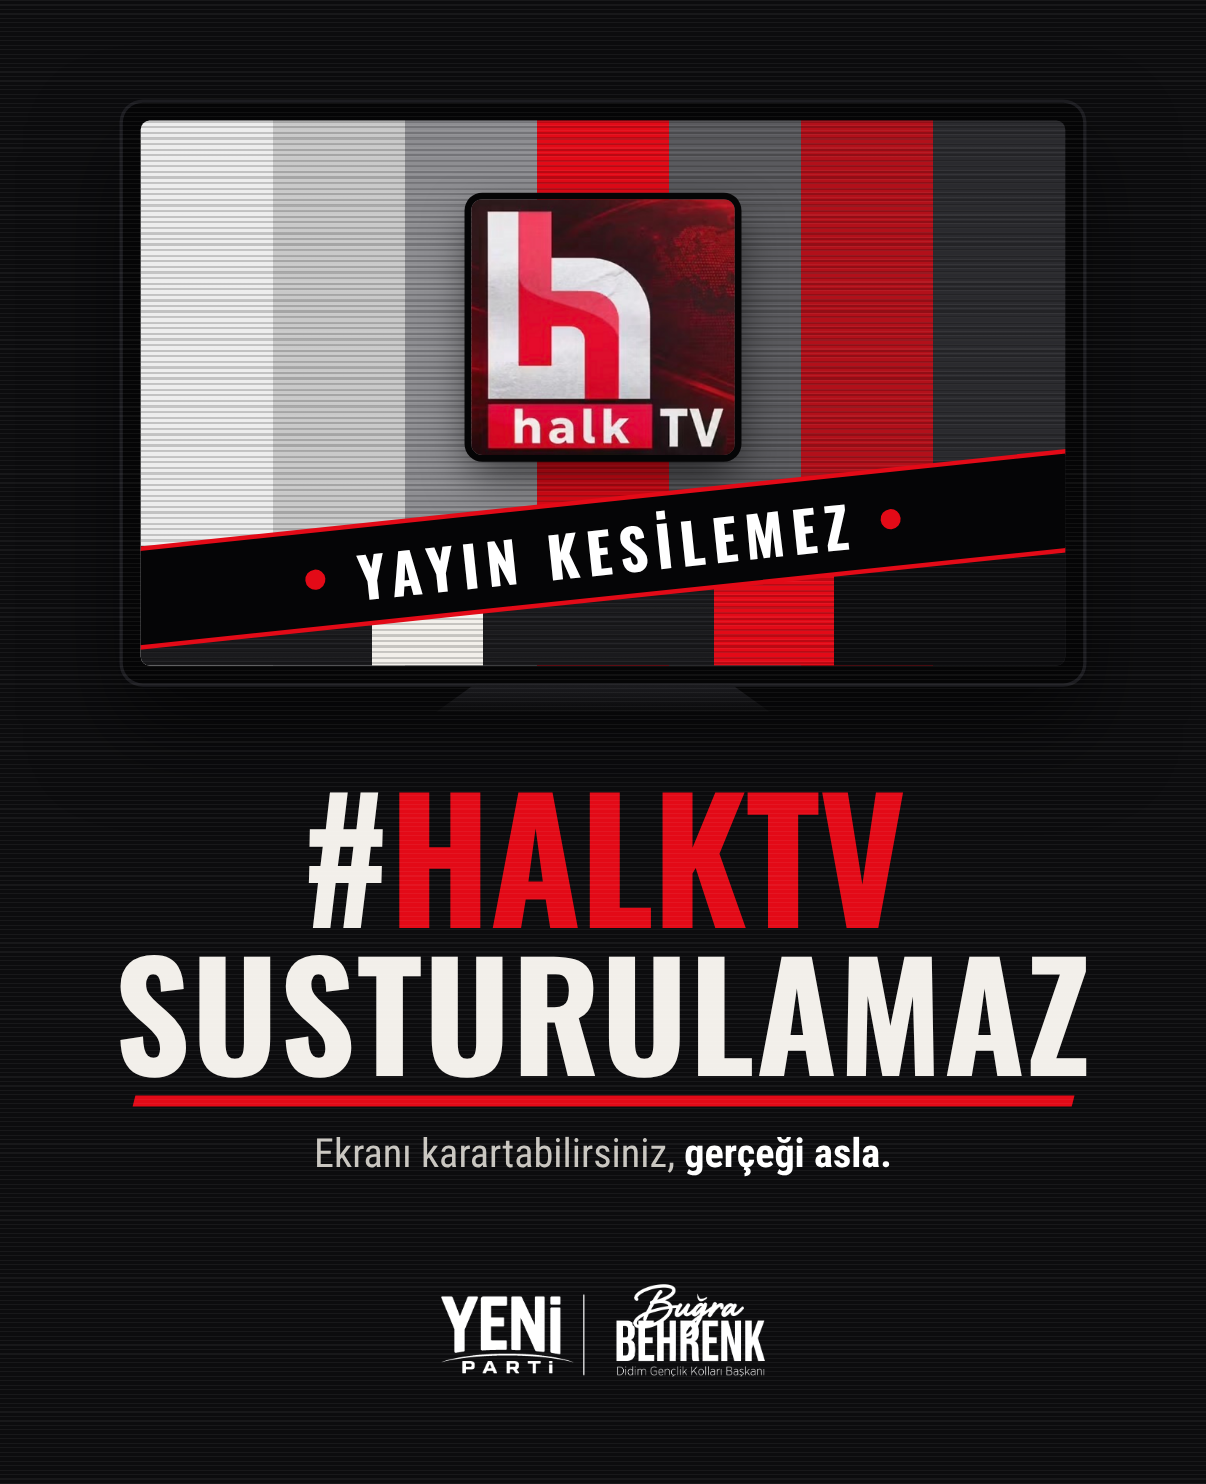
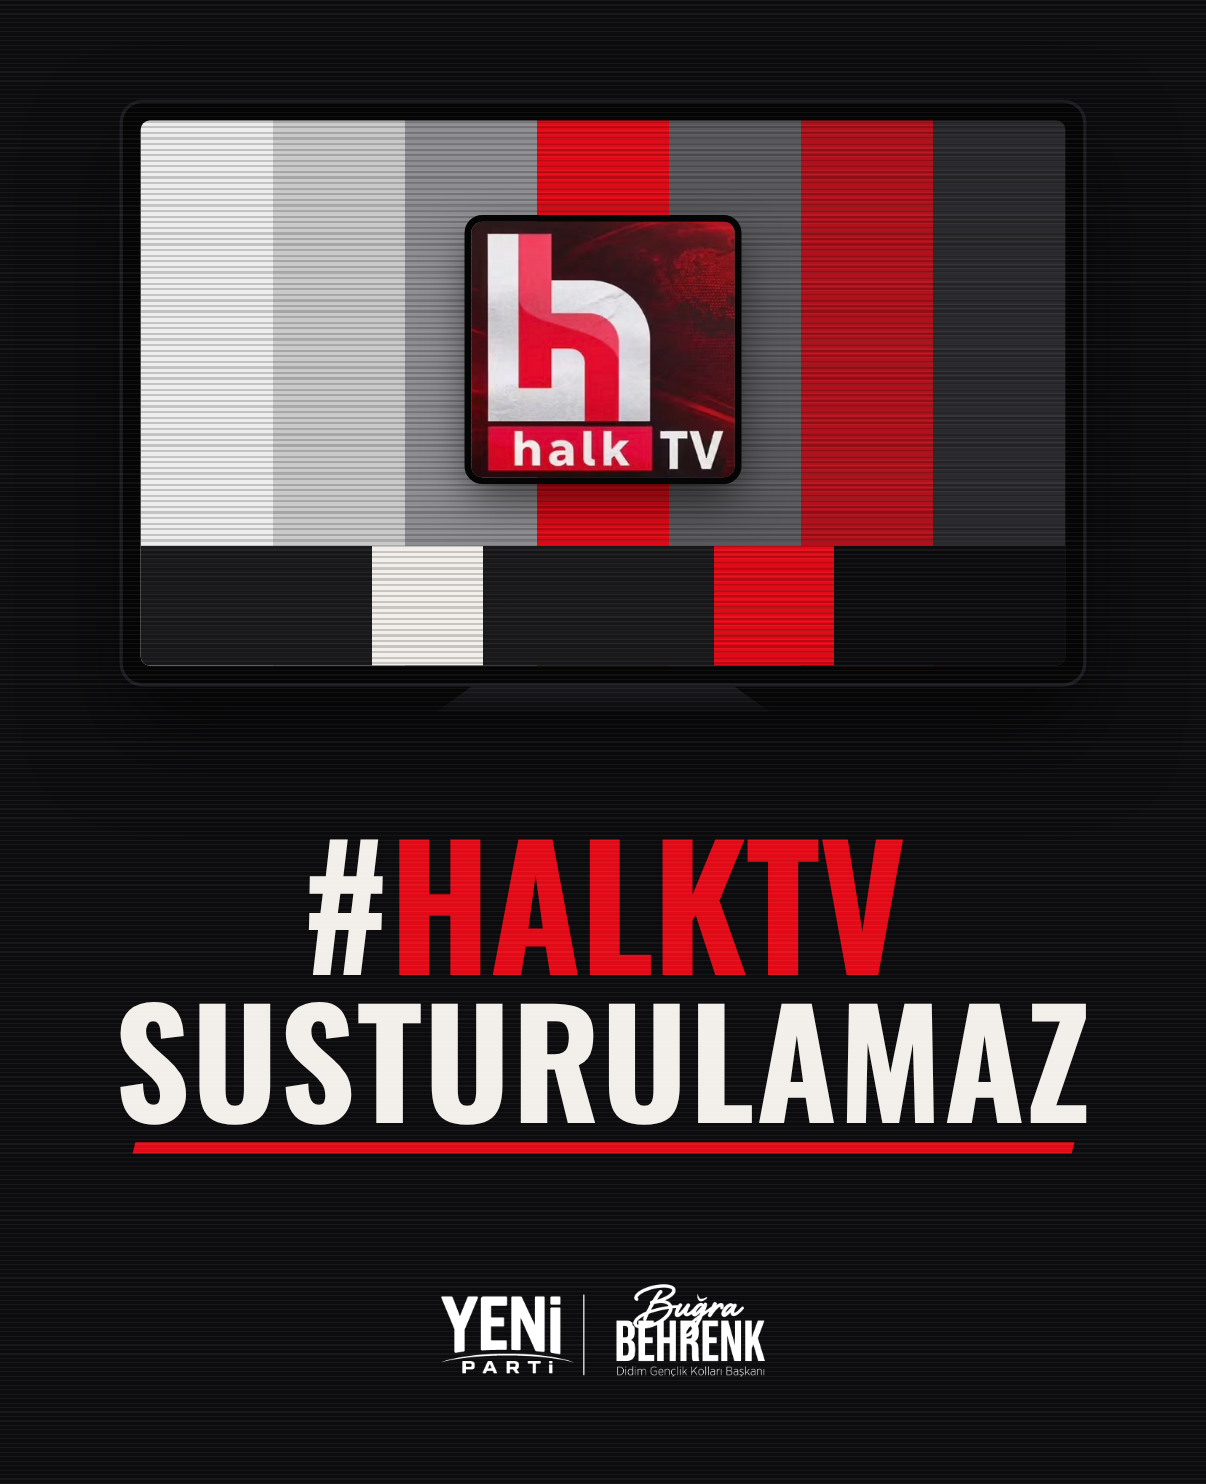
#HalkTVSusturulamaz kişisel: ek yazılar kaldırıldı
Claude-Session: https://claude.ai/code/session_01SatttGbgBLoCnk9KGLypWv

Changed region(s): [[0.092, 0.527, 0.9204, 0.8059], [0.1227, 0.124, 0.8897, 0.434]]

diff --git a/tasarim/halktv-susturulamaz/bugra.html b/tasarim/halktv-susturulamaz/bugra.html
@@ -22,7 +22,7 @@ body::after{content:"";position:absolute;inset:0;pointer-events:none;opacity:.05
   background:linear-gradient(to right,#1a1a1d 0 25%,#F2EFEA 25% 37%,#1a1a1d 37% 62%,#E30A17 62% 75%,#0d0d0f 75% 100%)}
 .ekran::after{content:"";position:absolute;inset:0;
   background:repeating-linear-gradient(to bottom,rgba(0,0,0,.18) 0 2px,transparent 2px 5px);mix-blend-mode:multiply}
-.kanal{position:absolute;left:50%;top:38%;width:236px;height:229px;transform:translate(-50%,-50%);z-index:2;
+.kanal{position:absolute;left:50%;top:42%;width:236px;height:229px;transform:translate(-50%,-50%);z-index:2;
   border-radius:10px;overflow:hidden;box-shadow:0 0 0 6px #050506,0 18px 40px rgba(0,0,0,.6)}
 .kanal img{width:100%;height:100%;display:block}
 .bant{position:absolute;left:-40px;right:-40px;top:70%;z-index:3;height:84px;background:#050506;transform:rotate(-6deg);
@@ -33,7 +33,7 @@ body::after{content:"";position:absolute;inset:0;pointer-events:none;opacity:.05
 .ayak{position:absolute;left:50%;top:612px;width:300px;height:26px;transform:translateX(-50%);
   background:linear-gradient(#1c1c20,#0a0a0b);clip-path:polygon(12% 0,88% 0,100% 100%,0 100%)}
 
-.baslik{position:absolute;left:0;right:0;top:688px;text-align:center}
+.baslik{position:absolute;left:0;right:0;top:730px;text-align:center}
 .baslik .b1{font:150px/1 Afis;letter-spacing:-.01em}
 .baslik .b1 em{font-style:normal;color:var(--kirmizi)}
 .baslik .b2{font:132px/1.02 Afis;letter-spacing:.01em;display:inline-block;position:relative}
@@ -50,7 +50,6 @@ body::after{content:"";position:absolute;inset:0;pointer-events:none;opacity:.05
 <body>
 <div class="tv"><div class="ekran">
   <div class="kanal"><img src="halktv-kare.png"></div>
-  <div class="bant"><i></i><span>YAYIN KESİLEMEZ</span><i></i></div>
 </div></div>
 <div class="ayak"></div>
 
@@ -58,7 +57,6 @@ body::after{content:"";position:absolute;inset:0;pointer-events:none;opacity:.05
   <div class="b1">#<em>HALKTV</em></div>
   <div class="b2">SUSTURULAMAZ</div>
 </div>
-<div class="alt">Ekranı karartabilirsiniz, <b>gerçeği asla.</b></div>
 
 <div class="imza-kutu"><img class="imza" src="../kisisel/imza-beyaz.png"></div>
 </body></html>

diff --git a/tasarim/halktv-susturulamaz/susturulamaz.html b/tasarim/halktv-susturulamaz/susturulamaz.html
@@ -22,7 +22,7 @@ body::after{content:"";position:absolute;inset:0;pointer-events:none;opacity:.05
   background:linear-gradient(to right,#1a1a1d 0 25%,#F2EFEA 25% 37%,#1a1a1d 37% 62%,#E30A17 62% 75%,#0d0d0f 75% 100%)}
 .ekran::after{content:"";position:absolute;inset:0;
   background:repeating-linear-gradient(to bottom,rgba(0,0,0,.18) 0 2px,transparent 2px 5px);mix-blend-mode:multiply}
-.kanal{position:absolute;left:50%;top:38%;width:236px;height:229px;transform:translate(-50%,-50%);z-index:2;
+.kanal{position:absolute;left:50%;top:42%;width:236px;height:229px;transform:translate(-50%,-50%);z-index:2;
   border-radius:10px;overflow:hidden;box-shadow:0 0 0 6px #050506,0 18px 40px rgba(0,0,0,.6)}
 .kanal img{width:100%;height:100%;display:block}
 .bant{position:absolute;left:-40px;right:-40px;top:70%;z-index:3;height:84px;background:#050506;transform:rotate(-6deg);
@@ -33,7 +33,7 @@ body::after{content:"";position:absolute;inset:0;pointer-events:none;opacity:.05
 .ayak{position:absolute;left:50%;top:612px;width:300px;height:26px;transform:translateX(-50%);
   background:linear-gradient(#1c1c20,#0a0a0b);clip-path:polygon(12% 0,88% 0,100% 100%,0 100%)}
 
-.baslik{position:absolute;left:0;right:0;top:688px;text-align:center}
+.baslik{position:absolute;left:0;right:0;top:730px;text-align:center}
 .baslik .b1{font:150px/1 Afis;letter-spacing:-.01em}
 .baslik .b1 em{font-style:normal;color:var(--kirmizi)}
 .baslik .b2{font:132px/1.02 Afis;letter-spacing:.01em;display:inline-block;position:relative}
@@ -50,7 +50,6 @@ body::after{content:"";position:absolute;inset:0;pointer-events:none;opacity:.05
 <body>
 <div class="tv"><div class="ekran">
   <div class="kanal"><img src="halktv-kare.png"></div>
-  <div class="bant"><i></i><span>YAYIN KESİLEMEZ</span><i></i></div>
 </div></div>
 <div class="ayak"></div>
 
@@ -58,7 +57,6 @@ body::after{content:"";position:absolute;inset:0;pointer-events:none;opacity:.05
   <div class="b1">#<em>HALKTV</em></div>
   <div class="b2">SUSTURULAMAZ</div>
 </div>
-<div class="alt">Ekranı karartabilirsiniz, <b>gerçeği asla.</b></div>
 
 <div class="imza-kutu">__IMZA__</div>
 </body></html>
